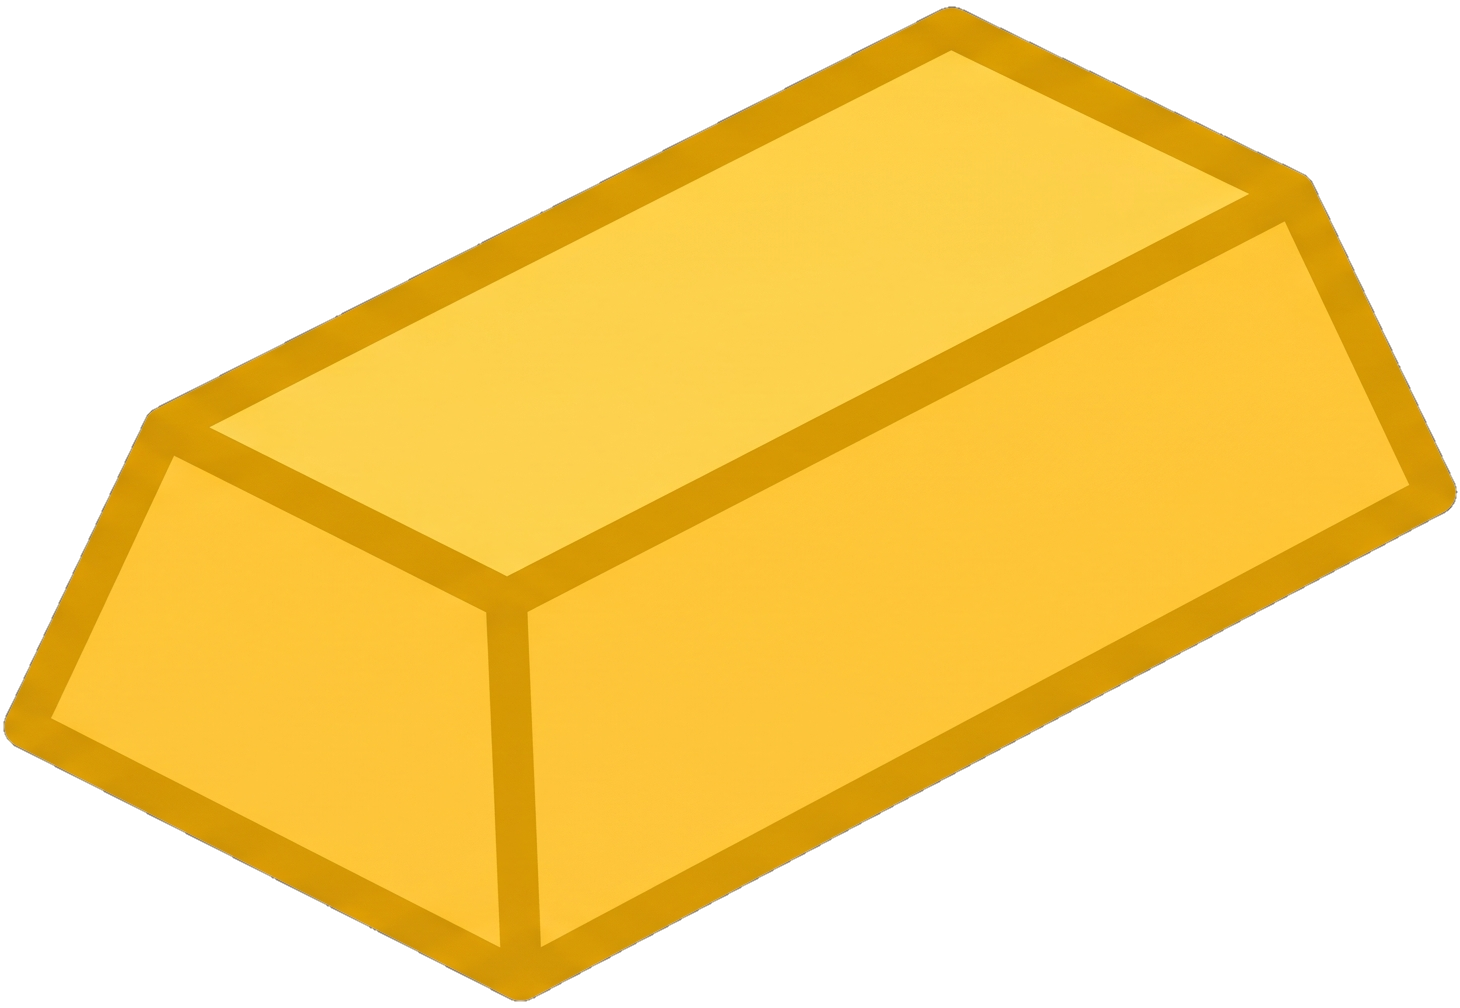
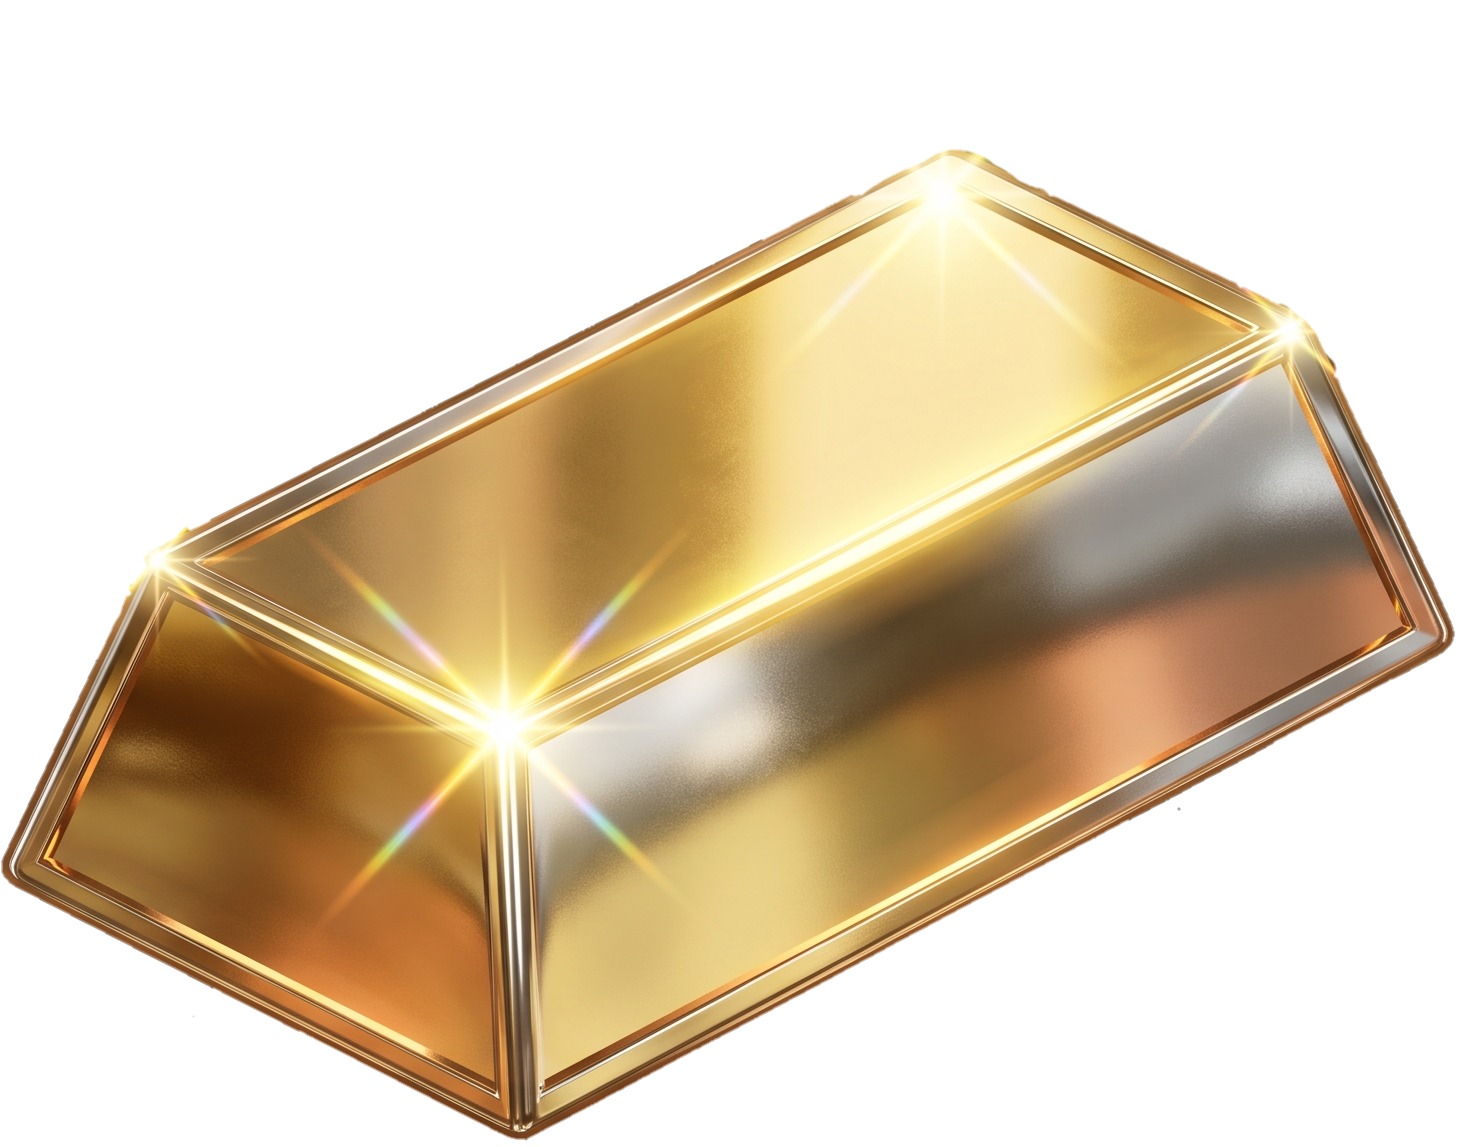
Added gold and iron ingots

diff --git a/Assets/Scripts/DroppedItem.cs b/Assets/Scripts/DroppedItem.cs
@@ -83,29 +83,59 @@ public class DroppedItem : MonoBehaviour
         visual.transform.localPosition = Vector3.zero;
         visual.transform.localScale    = Vector3.one;
 
-        // Try to retrieve custom sprite from registry
+        // Try to retrieve custom sprite from registry, or fall back to item.icon if it's a non-block item
         ItemDefinition itemDef = ItemRegistry.GetDefinition(item != null ? item.itemName : "");
-        if (itemDef != null && (itemDef.droppedItemSprite != null || itemDef.inventoryIcon != null))
+        Sprite spriteToUse = null;
+        if (itemDef != null)
         {
-            Sprite spriteToUse = itemDef.droppedItemSprite != null ? itemDef.droppedItemSprite : itemDef.inventoryIcon;
-            SpriteRenderer sr = visual.AddComponent<SpriteRenderer>();
-            sr.sprite = spriteToUse;
-            
-            // Set scale to fit nicely in the world
-            visual.transform.localScale = new Vector3(0.5f, 0.5f, 0.5f);
-            
+            spriteToUse = itemDef.droppedItemSprite != null ? itemDef.droppedItemSprite : itemDef.inventoryIcon;
+        }
+        if (spriteToUse == null && item != null && item.blockTypeID == 0)
+        {
+            spriteToUse = item.icon;
+        }
+
+        if (spriteToUse != null)
+        {
+            // Calculate dynamic scale based on sprite bounds to ensure a consistent, proportional size (0.35f units max dimension)
+            float maxDim = Mathf.Max(spriteToUse.bounds.size.x, spriteToUse.bounds.size.y);
+            float targetScale = 0.35f;
+            if (maxDim > 0.001f)
+            {
+                targetScale = 0.35f / maxDim;
+            }
+            visual.transform.localScale = new Vector3(targetScale, targetScale, 1f);
+
             Shader s = Shader.Find("Sprites/Default") ?? Shader.Find("Universal Render Pipeline/Unlit");
-            Material mat = new Material(s);
-            sr.material = mat;
+            Material sharedMat = new Material(s);
+
+            // Create a layered stack of 5 sprites to give the item a "thick" 3D look when it spins
+            int layersCount = 5;
+            float spacing = 0.012f;
+            for (int i = 0; i < layersCount; i++)
+            {
+                GameObject layerGo = new GameObject($"Layer_{i}");
+                layerGo.layer = 2; // Ignore Raycast
+                layerGo.transform.SetParent(visual.transform);
+                float zOffset = (i - (layersCount - 1) / 2f) * spacing;
+                layerGo.transform.localPosition = new Vector3(0f, 0f, zOffset);
+                layerGo.transform.localScale = Vector3.one;
+                layerGo.transform.localRotation = Quaternion.identity;
+
+                SpriteRenderer sr = layerGo.AddComponent<SpriteRenderer>();
+                sr.sprite = spriteToUse;
+                sr.sharedMaterial = sharedMat;
+            }
             return;
         }
 
         MeshFilter   mf = visual.AddComponent<MeshFilter>();
         MeshRenderer mr = visual.AddComponent<MeshRenderer>();
 
+        BlockDefinition blockDef = BlockRegistry.GetDefinition(blockType);
+
         if (overrideMesh != null)
         {
-            // Use custom mesh (e.g. wrench tool shape)
             mf.mesh = overrideMesh;
             if (overrideMaterial != null)
             {
@@ -118,6 +148,75 @@ public class DroppedItem : MonoBehaviour
                 mat.color = new Color(1f, 0.78f, 0.12f); // gold fallback
                 mr.material = mat;
             }
+
+            // Apply uniform scaling factor of 0.0625f to overrideMesh (Wrench and other custom tool/prop meshes)
+            visual.transform.localScale = new Vector3(0.0625f, 0.0625f, 0.0625f);
+        }
+        else if (blockDef != null && blockDef.customMesh != null)
+        {
+            // Custom block mesh drop (e.g. wheels, propellers, custom building blocks)
+            Mesh customDropMesh = new Mesh();
+            customDropMesh.name = "Dropped_" + blockDef.blockName;
+
+            Vector3[] sourceVerts = blockDef.cachedMeshVertices != null ? blockDef.cachedMeshVertices : blockDef.customMesh.vertices;
+            int[] sourceTris = blockDef.cachedMeshTriangles != null ? blockDef.cachedMeshTriangles : blockDef.customMesh.triangles;
+            Vector2[] sourceUVs = blockDef.cachedMeshUVs != null ? blockDef.cachedMeshUVs : blockDef.customMesh.uv;
+
+            // If we fall back to raw customMesh.vertices, they are at 16x scale. Scale them to 1x scale (0.0625f)
+            if (blockDef.cachedMeshVertices == null)
+            {
+                Vector3[] scaledVerts = new Vector3[sourceVerts.Length];
+                for (int i = 0; i < sourceVerts.Length; i++)
+                {
+                    scaledVerts[i] = sourceVerts[i] * 0.0625f;
+                }
+                sourceVerts = scaledVerts;
+            }
+
+            // Remap UVs to the texture atlas
+            int tile = -1;
+            if (blockDef.resolvedSideTile != -1) tile = blockDef.resolvedSideTile;
+            else if (blockDef.resolvedTopTile != -1) tile = blockDef.resolvedTopTile;
+            else if (blockDef.resolvedBottomTile != -1) tile = blockDef.resolvedBottomTile;
+            else if (blockDef.resolvedFrontTile != -1) tile = blockDef.resolvedFrontTile;
+            
+            if (tile == -1)
+            {
+                tile = BlockRegistry.GetDefaultTileIndex(blockDef.blockID, 1);
+            }
+            int totalCount = BlockRegistry.TotalTilesCount;
+            float u0 = tile / (float)totalCount;
+            float u1 = (tile + 1f) / (float)totalCount;
+
+            Vector2[] remappedUVs = new Vector2[sourceUVs.Length];
+            for (int i = 0; i < sourceUVs.Length; i++)
+            {
+                Vector2 origUV = sourceUVs[i];
+                float u = Mathf.Lerp(u0, u1, origUV.x);
+                remappedUVs[i] = new Vector2(u, origUV.y);
+            }
+
+            customDropMesh.vertices = sourceVerts;
+            customDropMesh.triangles = sourceTris;
+            customDropMesh.uv = remappedUVs;
+            customDropMesh.RecalculateNormals();
+            customDropMesh.RecalculateBounds();
+
+            mf.mesh = customDropMesh;
+
+            if (blockDef.isTransparent)
+            {
+                mr.sharedMaterial = VoxelWorld.Instance != null ? VoxelWorld.Instance.foliageMaterial : null;
+            }
+            else
+            {
+                mr.sharedMaterial = VoxelWorld.Instance != null ? VoxelWorld.Instance.chunkMaterial : null;
+            }
+
+            // Standard block drops are mini-cubes (35% size).
+            // Since customDropMesh vertices are already scaled to 1.0 unit size,
+            // we scale the visual transform by 0.35f to match.
+            visual.transform.localScale = new Vector3(0.35f, 0.35f, 0.35f);
         }
         else
         {
@@ -446,9 +545,10 @@ public class DroppedItem : MonoBehaviour
             return;
         }
 
-        // Landed: check ground still exists, then float bob + spin
+        // Landed: check ground still exists, using the stable startY to prevent bobbing from throwing off the raycast distance
+        Vector3 checkOrigin = new Vector3(transform.position.x, startY, transform.position.z);
         bool groundStillThere = Physics.Raycast(
-            transform.position, Vector3.down, 0.6f, ~0, QueryTriggerInteraction.Ignore);
+            checkOrigin, Vector3.down, 0.6f, ~0, QueryTriggerInteraction.Ignore);
 
         if (!groundStillThere)
         {

diff --git a/Assets/Scripts/Inventory.cs b/Assets/Scripts/Inventory.cs
@@ -853,9 +853,7 @@ public class Inventory : MonoBehaviour
             items.Add(new CreativeItemData("Bedrock", 48, 64));
             items.Add(new CreativeItemData("Cactus", 49, 64));
             items.Add(new CreativeItemData("Birch Log", 51, 64));
-            items.Add(new CreativeItemData("Birch Leaves", 52, 64));
             items.Add(new CreativeItemData("Spruce Log", 53, 64));
-            items.Add(new CreativeItemData("Spruce Leaves", 54, 64));
             items.Add(new CreativeItemData("Coal Ore", 30, 64));
             items.Add(new CreativeItemData("Iron Ore", 31, 64));
             items.Add(new CreativeItemData("Diamond Ore", 55, 64));
@@ -898,7 +896,6 @@ public class Inventory : MonoBehaviour
             items.Add(new CreativeItemData("Diamond", 0, 64));
             items.Add(new CreativeItemData("Stick", 0, 64));
             items.Add(new CreativeItemData("Wool", 0, 64));
-            items.Add(new CreativeItemData("Mutton", 0, 64));
             items.Add(new CreativeItemData("Leather", 0, 64));
 
             // ── 3. Vehicles ─────────────────────────────────────────
@@ -912,10 +909,15 @@ public class Inventory : MonoBehaviour
             items.Add(new CreativeItemData("Short Grass", 13, 64));
             items.Add(new CreativeItemData("Tall Grass", 14, 64));
             items.Add(new CreativeItemData("Leaves", 12, 64));
+            items.Add(new CreativeItemData("Birch Leaves", 52, 64));
+            items.Add(new CreativeItemData("Spruce Leaves", 54, 64));
             items.Add(new CreativeItemData("Flower", 9, 64));
             items.Add(new CreativeItemData("Dandelion", 10, 64));
             items.Add(new CreativeItemData("Iris", 11, 64));
+
+            // ── 5. Food ─────────────────────────────────────────────
             items.Add(new CreativeItemData("Apple", 0, 64));
+            items.Add(new CreativeItemData("Mutton", 0, 64));
         }
         else if (category == "BLOCKS")
         {
@@ -932,9 +934,7 @@ public class Inventory : MonoBehaviour
             items.Add(new CreativeItemData("Bedrock", 48, 64));
             items.Add(new CreativeItemData("Cactus", 49, 64));
             items.Add(new CreativeItemData("Birch Log", 51, 64));
-            items.Add(new CreativeItemData("Birch Leaves", 52, 64));
             items.Add(new CreativeItemData("Spruce Log", 53, 64));
-            items.Add(new CreativeItemData("Spruce Leaves", 54, 64));
             items.Add(new CreativeItemData("Coal Ore", 30, 64));
             items.Add(new CreativeItemData("Iron Ore", 31, 64));
             items.Add(new CreativeItemData("Diamond Ore", 55, 64));
@@ -972,17 +972,6 @@ public class Inventory : MonoBehaviour
             items.Add(new CreativeItemData("Wooden Shovel", 0, 1));
             items.Add(new CreativeItemData("Wooden Sword", 0, 1));
             items.Add(new CreativeItemData("Wooden Rake", 0, 1));
-            // Wrench, materials
-            items.Add(new CreativeItemData("Wrench", 0, 1));
-            items.Add(new CreativeItemData("Wolf Spawn Egg", 0, 64));
-            items.Add(new CreativeItemData("Sheep Spawn Egg", 0, 64));
-            items.Add(new CreativeItemData("Coal Chunk", 0, 64));
-            items.Add(new CreativeItemData("Iron Ingot", 0, 64));
-            items.Add(new CreativeItemData("Iron", 0, 64));
-            items.Add(new CreativeItemData("Diamond", 0, 64));
-            items.Add(new CreativeItemData("Wool", 0, 64));
-            items.Add(new CreativeItemData("Mutton", 0, 64));
-            items.Add(new CreativeItemData("Leather", 0, 64));
         }
         else if (category == "VEHICLES")
         {
@@ -998,10 +987,16 @@ public class Inventory : MonoBehaviour
             items.Add(new CreativeItemData("Short Grass", 13, 64));
             items.Add(new CreativeItemData("Tall Grass", 14, 64));
             items.Add(new CreativeItemData("Leaves", 12, 64));
+            items.Add(new CreativeItemData("Birch Leaves", 52, 64));
+            items.Add(new CreativeItemData("Spruce Leaves", 54, 64));
             items.Add(new CreativeItemData("Flower", 9, 64));
             items.Add(new CreativeItemData("Dandelion", 10, 64));
             items.Add(new CreativeItemData("Iris", 11, 64));
+        }
+        else if (category == "FOOD")
+        {
             items.Add(new CreativeItemData("Apple", 0, 64));
+            items.Add(new CreativeItemData("Mutton", 0, 64));
         }
         else if (category == "ITEMS")
         {
@@ -1011,9 +1006,7 @@ public class Inventory : MonoBehaviour
             items.Add(new CreativeItemData("Diamond", 0, 64));
             items.Add(new CreativeItemData("Stick", 0, 64));
             items.Add(new CreativeItemData("Wool", 0, 64));
-            items.Add(new CreativeItemData("Mutton", 0, 64));
             items.Add(new CreativeItemData("Leather", 0, 64));
-            items.Add(new CreativeItemData("Apple", 0, 64));
         }
         else if (category == "SPAWNERS")
         {

diff --git a/Assets/Scripts/WrenchItem.cs b/Assets/Scripts/WrenchItem.cs
@@ -356,10 +356,10 @@ public class WrenchItem : MonoBehaviour
         var tris  = new List<int>();
         var norms = new List<Vector3>();
 
-        AddBox(verts, tris, norms, new Vector3(0f, -0.08f, 0f),  new Vector3(0.035f, 0.16f, 0.035f)); // handle
-        AddBox(verts, tris, norms, new Vector3(0f,  0.10f, 0f),  new Vector3(0.13f,  0.03f, 0.035f)); // top bar
-        AddBox(verts, tris, norms, new Vector3(-0.05f, 0.07f, 0f), new Vector3(0.03f, 0.06f, 0.035f)); // left jaw
-        AddBox(verts, tris, norms, new Vector3( 0.05f, 0.07f, 0f), new Vector3(0.03f, 0.06f, 0.035f)); // right jaw
+        AddBox(verts, tris, norms, new Vector3(0f, -1.28f, 0f),    new Vector3(0.56f, 2.56f, 0.56f));  // handle
+        AddBox(verts, tris, norms, new Vector3(0f, 1.60f, 0f),     new Vector3(2.08f, 0.48f, 0.56f));  // top bar
+        AddBox(verts, tris, norms, new Vector3(-0.80f, 1.12f, 0f), new Vector3(0.48f, 0.96f, 0.56f));  // left jaw
+        AddBox(verts, tris, norms, new Vector3(0.80f, 1.12f, 0f),  new Vector3(0.48f, 0.96f, 0.56f));  // right jaw
 
         Mesh mesh = new Mesh();
         mesh.name = "WrenchMesh";

diff --git a/Assets/Scripts/ItemDatabase.cs b/Assets/Scripts/ItemDatabase.cs
@@ -34,8 +34,8 @@ public class ItemDatabase : ScriptableObject
         defaults.Add(CreateDef(90, "Leather", "ITEMS", 0, ToolType.None, ToolTier.None, true, 64, "Tough animal leather."));
         
         // 4. Edibles
-        defaults.Add(CreateDef(89, "Mutton", "ITEMS", 0, ToolType.None, ToolTier.None, true, 64, "Raw mutton meat. Restores health.", healAmount: 4));
-        defaults.Add(CreateDef(88, "Apple", "ITEMS", 0, ToolType.None, ToolTier.None, true, 64, "A delicious red apple. Restores health.", healAmount: 2));
+        defaults.Add(CreateDef(89, "Mutton", "FOOD", 0, ToolType.None, ToolTier.None, true, 64, "Raw mutton meat. Restores health.", healAmount: 4));
+        defaults.Add(CreateDef(88, "Apple", "FOOD", 0, ToolType.None, ToolTier.None, true, 64, "A delicious red apple. Restores health.", healAmount: 2));
 
         // 5. Tools of various tiers
         // Diamond

diff --git a/Assets/Scripts/InventoryUI.cs b/Assets/Scripts/InventoryUI.cs
@@ -39,7 +39,7 @@ public class InventoryUI : MonoBehaviour
     private GameObject  tabsContainer;
     private string      activeCategory = "ALL";
     private Image[]     tabImages;
-    private string[]    categories = new string[] { "ALL", "BLOCKS", "TOOLS", "VEHICLES", "ITEMS", "FOLIAGE", "SPAWNERS" };
+    private string[]    categories = new string[] { "ALL", "BLOCKS", "TOOLS", "VEHICLES", "ITEMS", "FOLIAGE", "FOOD", "SPAWNERS" };
     private RectTransform contentRT;
 
     void Awake()
@@ -976,6 +976,7 @@ public class InventoryUI : MonoBehaviour
             case "VEHICLES": return 5;
             case "ITEMS": return 9;
             case "FOLIAGE": return 4;
+            case "FOOD": return 2;
             case "SPAWNERS": return 1;
             default: return 35;
         }